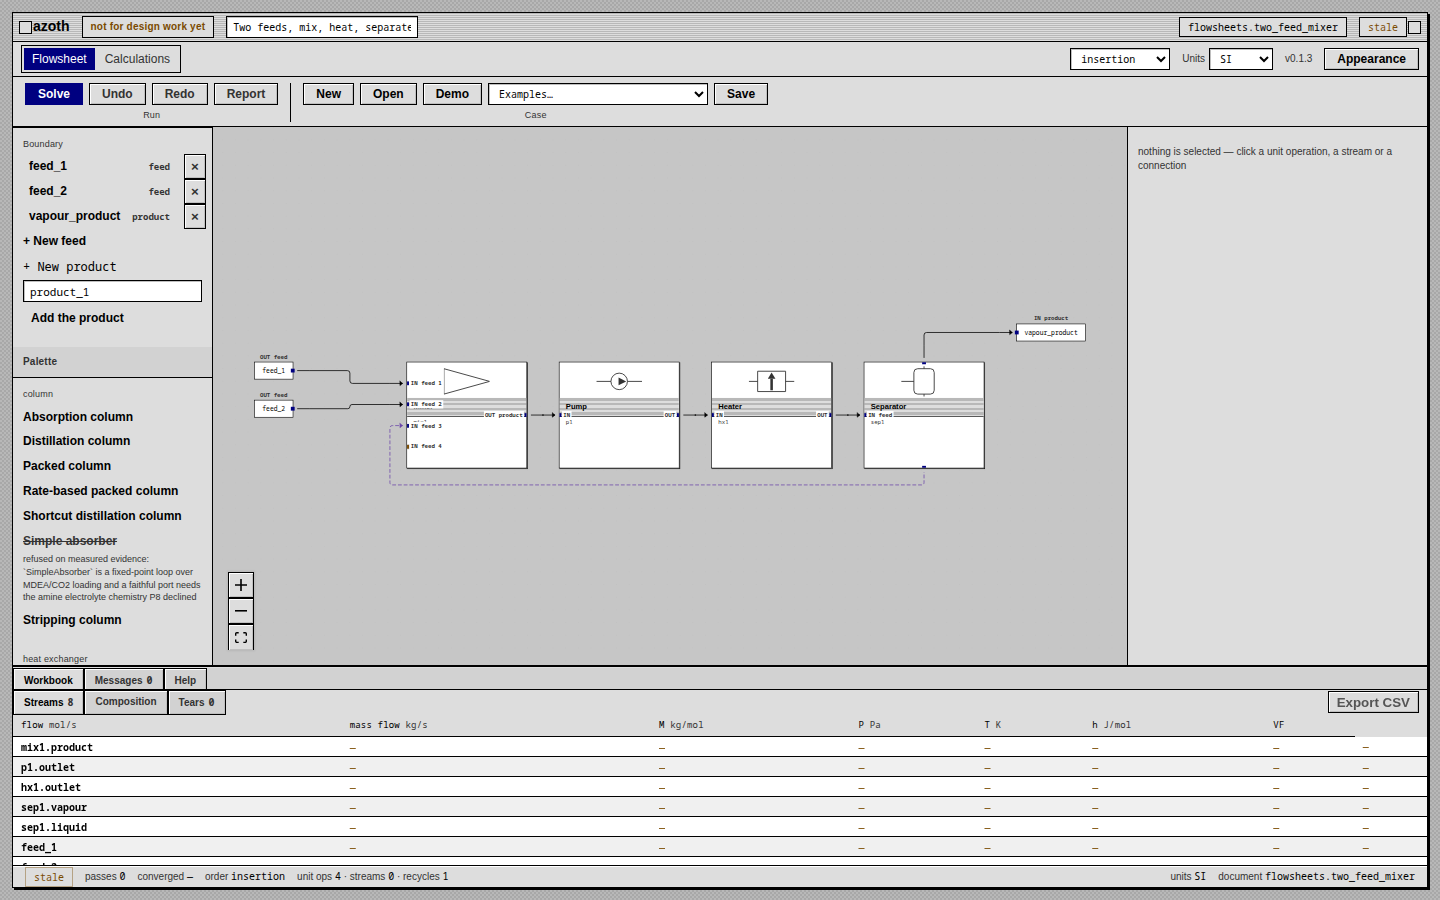
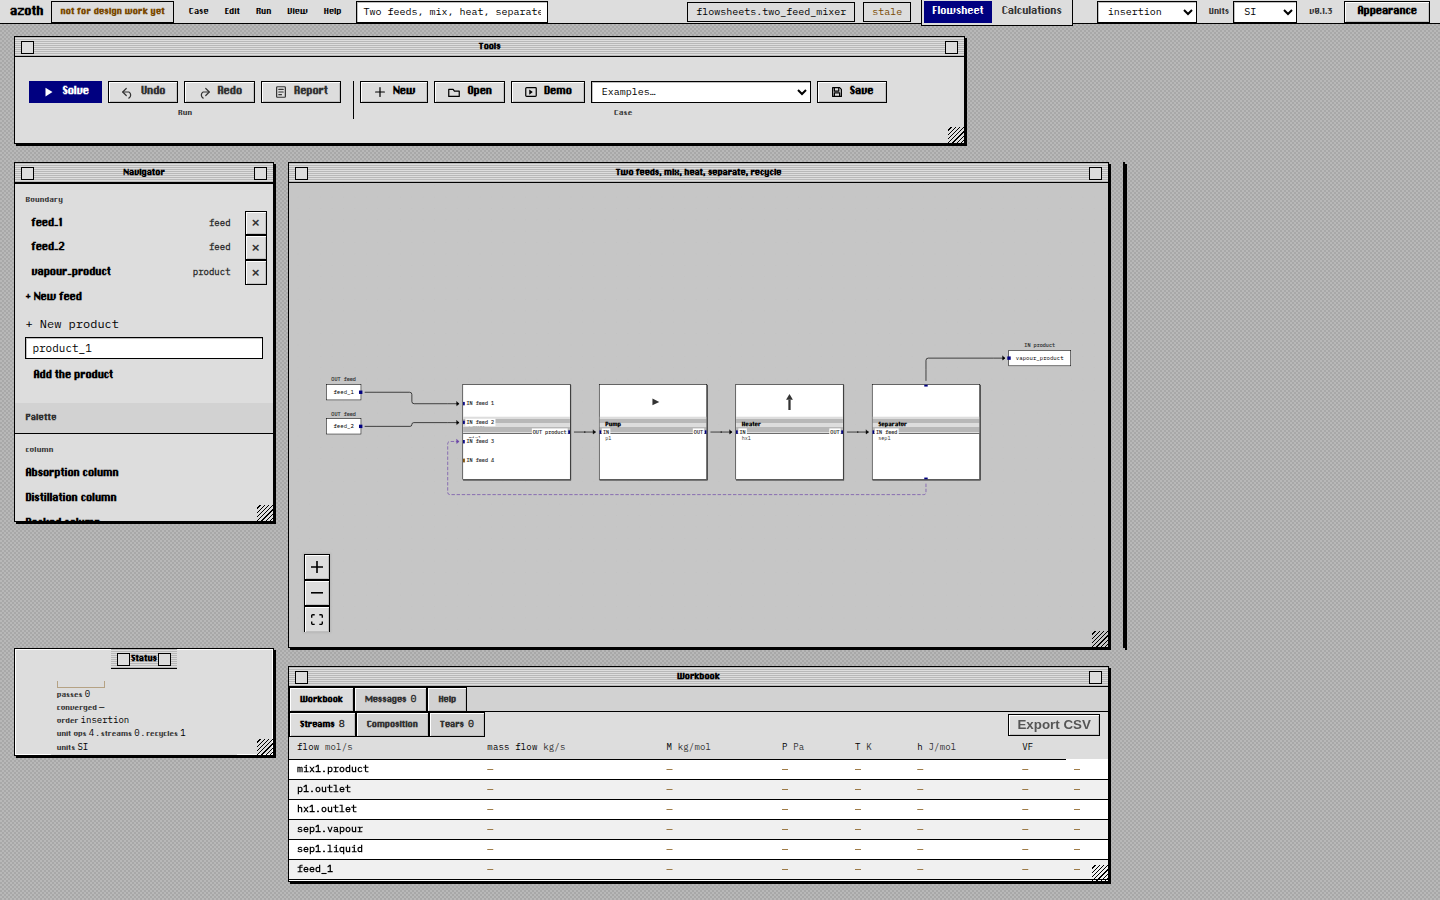
ui: finish the shells and document what they change
Keep the hidden workspace hidden under the desktop display rules, place the
calculation worksheet as a HUD panel instead of under the command deck, cap a
raised Macintosh window below the modal layer, and give XP its selected menu
row. The manual and the UI README now describe the three shells and their
interactions; the screenshots are regenerated against them, and the tests hold
the hidden-workspace and picker-rail invariants.

diff --git a/ui/test/calculations.test.tsx b/ui/test/calculations.test.tsx
@@ -28,11 +28,14 @@ function stubFetch(): void {
   };
 }
 
-async function open() {
+async function open(stored: Record<string, string> = {}) {
   window.localStorage.setItem("azoth.welcome", "seen");
   window.localStorage.removeItem("azoth.units");
   window.localStorage.removeItem("azoth.appearance");
   window.localStorage.removeItem("azoth.theme");
+  for (const [key, value] of Object.entries(stored)) {
+    window.localStorage.setItem(key, value);
+  }
   const { App } = await import("../src/App");
   const rendered = render(<App />);
   await waitFor(() => {
@@ -70,6 +73,27 @@ describe("the calculations workspace", () => {
 
     // The hidden flowsheet has the same document attributes; the choice is not per-workspace.
     expect(document.documentElement.dataset.theme).toBe("light");
+  });
+
+  it("gives the book the same Macintosh windows and Cyberpunk picker rail", async () => {
+    stubFetch();
+    await open({
+      "azoth.appearance": JSON.stringify({ layout: "mac", theme: "light" }),
+    });
+    const picker = document.querySelector('[data-window="picker"]');
+    const worksheet = document.querySelector('[data-window="worksheet"]');
+    expect(picker?.querySelector(".window-title")?.textContent).toBe("Calculators");
+    expect(worksheet?.querySelector(".window-title")?.textContent).toBe("Pump shaft power");
+
+    cleanup();
+    await open({
+      "azoth.appearance": JSON.stringify({ layout: "cyberpunk", theme: "dark" }),
+    });
+    const app = document.querySelector(".app.calculations");
+    expect(app?.getAttribute("data-hud-picker")).toBe("on");
+    fireEvent.click(screen.getByRole("button", { name: "Hide Picker" }));
+    expect(app?.getAttribute("data-hud-picker")).toBe("off");
+    expect(document.querySelector('[data-window="worksheet"]')).not.toBeNull();
   });
 
   it("opens the shipped worked-example book and calculates its first sheet", async () => {

diff --git a/ui/src/styles/layouts/cyberpunk.css b/ui/src/styles/layouts/cyberpunk.css
@@ -19,6 +19,12 @@
   overflow: hidden;
 }
 
+/* The HUD's `display:block` must not outrank the workspace switch. */
+[data-layout="cyberpunk"] .app.off,
+[data-layout="cyberpunk"] .app[hidden] {
+  display: none;
+}
+
 /* --- the telemetry strip ---------------------------------------------------- */
 
 [data-layout="cyberpunk"] .bar {
@@ -113,11 +119,14 @@
 }
 
 [data-layout="cyberpunk"] [data-window="worksheet"] {
-  inset: var(--hud-bar-h) 0 0 0;
-  z-index: auto;
-  border: 0;
-  background: transparent;
-  box-shadow: none;
+  left: calc(var(--tools-w) + 2 * var(--hud-gap));
+  right: var(--hud-gap);
+  top: calc(var(--hud-bar-h) + 2 * var(--hud-gap) + var(--deck-h));
+  bottom: var(--hud-gap);
+  z-index: 10;
+  border: 1px solid var(--hud-border);
+  background: var(--surface-hud);
+  box-shadow: 0 0 12px var(--glow-accent);
 }
 
 [data-layout="cyberpunk"] [data-window="document"] .window-title,

diff --git a/ui/test/tokens.test.ts b/ui/test/tokens.test.ts
@@ -365,6 +365,15 @@ it("tells the browser which colour scheme is in force", () => {
   );
 });
 
+/** A shell that gives `.app` its own display must not outrank the workspace switch. */
+it("keeps the hidden workspace hidden in every desktop shell", () => {
+  for (const file of ["layouts/mac.css", "layouts/cyberpunk.css"]) {
+    const css = read(file);
+    expect(css, file).toMatch(/\.app\.off[\s\S]*?display:\s*none/);
+    expect(css, file).toMatch(/\.app\[hidden\][\s\S]*?display:\s*none/);
+  }
+});
+
 /** Print is the one fixed palette, and the layout decoration must not reach it. */
 it("keeps paper out of the layouts and above every cell", () => {
   const report = read("report.css");

diff --git a/ui/src/hooks/useWindowManager.ts b/ui/src/hooks/useWindowManager.ts
@@ -148,6 +148,16 @@ export function useWindowManager(
         return;
       }
       z.current += 1;
+      if (z.current > 18) {
+        // Stay below the overview/report layer (20): cycle the other windows back down rather
+        // than letting a much-clicked window climb over the modal layer.
+        z.current = 11;
+        for (const other of element.querySelectorAll<HTMLElement>("[data-window]")) {
+          if (other !== region) {
+            other.style.setProperty("--wz", "10");
+          }
+        }
+      }
       region.style.setProperty("--wz", String(z.current));
 
       const interactive = target.closest("input, select, button, textarea, a, [contenteditable]");

diff --git a/ui/src/styles/layouts/xp.css b/ui/src/styles/layouts/xp.css
@@ -81,6 +81,20 @@
   color: var(--text-dim);
 }
 
+[data-layout="xp"] .menu {
+  border-color: var(--line-strong);
+  background: var(--surface-menu);
+}
+
+[data-layout="xp"] .menubar .menu-item:hover:not(.off) {
+  background: var(--bg-selected);
+  color: var(--selected-text);
+}
+
+[data-layout="xp"] .menubar .menu-item:hover:not(.off) .menu-shortcut {
+  color: var(--selected-text);
+}
+
 /* --- controls --------------------------------------------------------------- */
 
 [data-layout="xp"] button,

diff --git a/ui/src/styles/layouts/mac.css b/ui/src/styles/layouts/mac.css
@@ -25,6 +25,12 @@
   color: var(--text);
 }
 
+/* The desktop's `display:block` must not outrank the workspace switch. */
+[data-layout="mac"] .app.off,
+[data-layout="mac"] .app[hidden] {
+  display: none;
+}
+
 /* --- the menu bar ----------------------------------------------------------- */
 
 [data-layout="mac"] .bar {

diff --git a/ui/README.md b/ui/README.md
@@ -51,12 +51,34 @@ and fails when they are stale.
 the pre-paint script only overrides it. `?layout=mac&theme=dark` previews a combination without
 saving it.
 
+**The layouts are shells, not skins.** Each one arranges the same semantic regions — the
+Navigator, document, Inspector, Workbook and status — differently:
+
+- **Macintosh** is a desktop. The menu bar is a screen strip and the palette, document,
+  inspector, workbook and status are separate windows. `useWindowManager` drags from a title,
+  resizes from the grip, raises on click, clamps to the desktop and exposes a **Reset window
+  positions** command. The resting geometry is CSS.
+- **Windows XP** is one MDI frame: a Luna title bar, a menu row, a tool row, a large-button
+  toolbar, Explorer panes and a white document child under a blue caption.
+- **Cyberpunk** is a full-bleed drawing with translucent HUD rails and a command deck. The
+  telemetry strip's rail switches hide the Navigator, Inspector, Workbook or Toolbar; the canvas
+  never hides. `Ctrl/Cmd+K` opens the command palette.
+
+**Typography is bundled**, not borrowed from the OS: Sysfont for Macintosh, the unmodified Wine
+Tahoma for XP, Rajdhani and Share Tech Mono for Cyberpunk, with IBM Plex Mono for Macintosh data.
+`src/styles/fonts.css` and `src/fonts/` carry the faces and licences; `check:dist` asks for every
+font URL and its MIME type.
+
+**One command model** (`src/commands/model.ts`) feeds the toolbar, the menu bar and the palette.
+The toolbar buttons stay visible and keep their accessible names; menu items are `menuitem`s and
+palette rows are `option`s, so a second surface never duplicates a `getByRole("button")`.
+
 `src/styles/tokens.css` owns every value: the nine tone cells, the three layout shape blocks and
-the derived paints. `src/styles/layouts/*.css` are selectors only - no colour or duration literal
-is allowed there, and `test/tokens.test.ts` enforces both the contract and the nine-cell
-completeness. `test/contrast.test.ts` measures the text pairs in every combination.
-`src/state/appearance.ts` reads and writes `azoth.appearance`; `index.html` carries a pre-paint
-copy of the same key and defaults, held equal by `test/appearance.test.ts`.
+the derived paints. `src/styles/layouts/*.css` carry the boxes, captions and windows but no
+colour or duration literal; `test/tokens.test.ts` enforces the contract, the nine cells and the
+shell invariants. `test/contrast.test.ts` measures the text pairs; `test/shell.test.tsx` moves,
+resizes and resets a Macintosh window. `src/state/appearance.ts` reads and writes
+`azoth.appearance`; `index.html` carries a pre-paint copy of the same key and defaults.
 
 To add a layout: add its id to the union and the chooser, add the full shape set in a
 `[data-layout]` block plus one tone cell per colour in `tokens.css`, and add a

diff --git a/docs/src/using/editor.md b/docs/src/using/editor.md
@@ -52,13 +52,23 @@ It never changes the document, and solving has no opinion about it.
 
 ## Appearance
 
-The header's **Appearance** control chooses a layout and a colour, and remembers the pair for
+The top bar's **Appearance** control chooses a layout and a colour, and remembers the pair for
 this browser. The layouts are **Macintosh**, **Windows XP** and **Cyberpunk**; each can be
 **light**, **neutral** or **dark**. The default is Windows XP light.
 
-![The Macintosh layout](../images/editor-mac.png)
+The layouts are not colour schemes over one screen. **Windows XP** is a single MDI frame: a Luna
+title bar, a menu row, a toolbar and Explorer panes around a document window. **Macintosh** is a
+grey desktop: the menu bar is at the top and the navigator, drawing, inspector, workbook and
+status are separate windows — drag a title bar to move one, drag its bottom-right corner to
+resize it, and use **View → Reset window positions** to put them back. **Cyberpunk** is a
+full-bleed drawing with translucent HUD rails; the switches at the right of the top strip hide
+the navigator, inspector, workbook or command deck, and **Cmd** in the strip — or
+**Ctrl/Cmd+K** anywhere in that layout — opens a command palette over the same commands as the
+toolbar and menus.
 
-![The Cyberpunk layout in its dark colour](../images/editor-cyberpunk.png)
+![The Macintosh desktop](../images/editor-mac.png)
+
+![The Cyberpunk HUD in its dark colour](../images/editor-cyberpunk.png)
 
 The profiles are cosmetic: they change nothing in the document, the stream values or the unit
 set, and the report keeps its fixed paper palette when printed. The choice is a reader's, like
